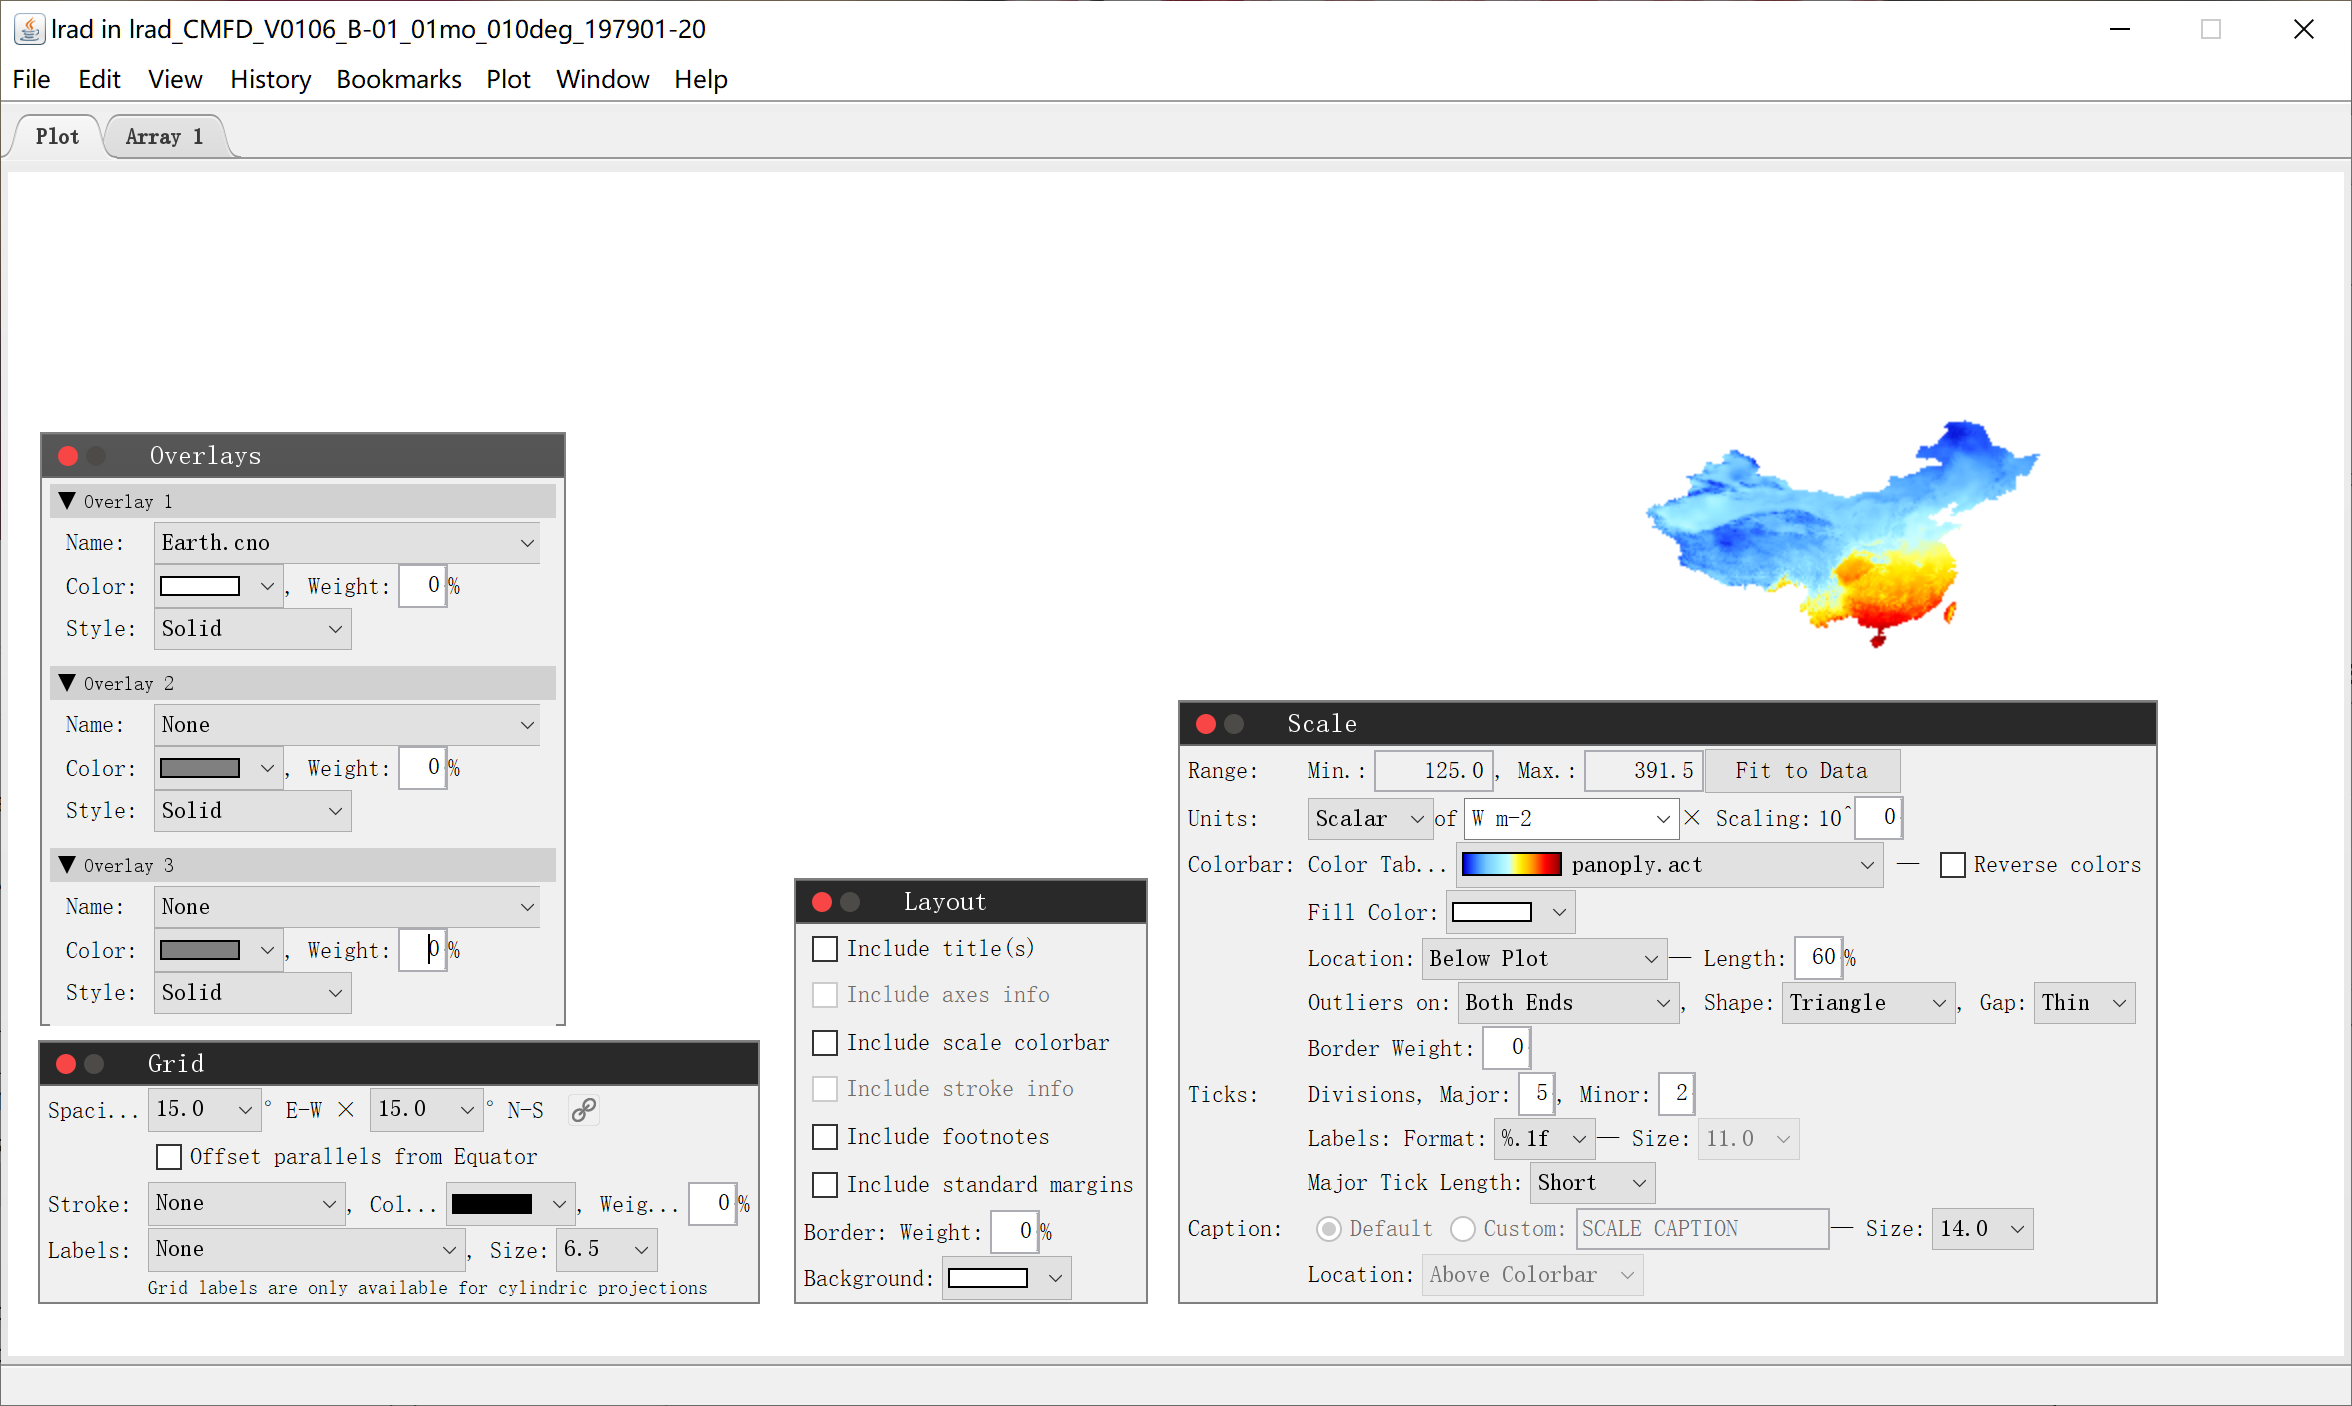
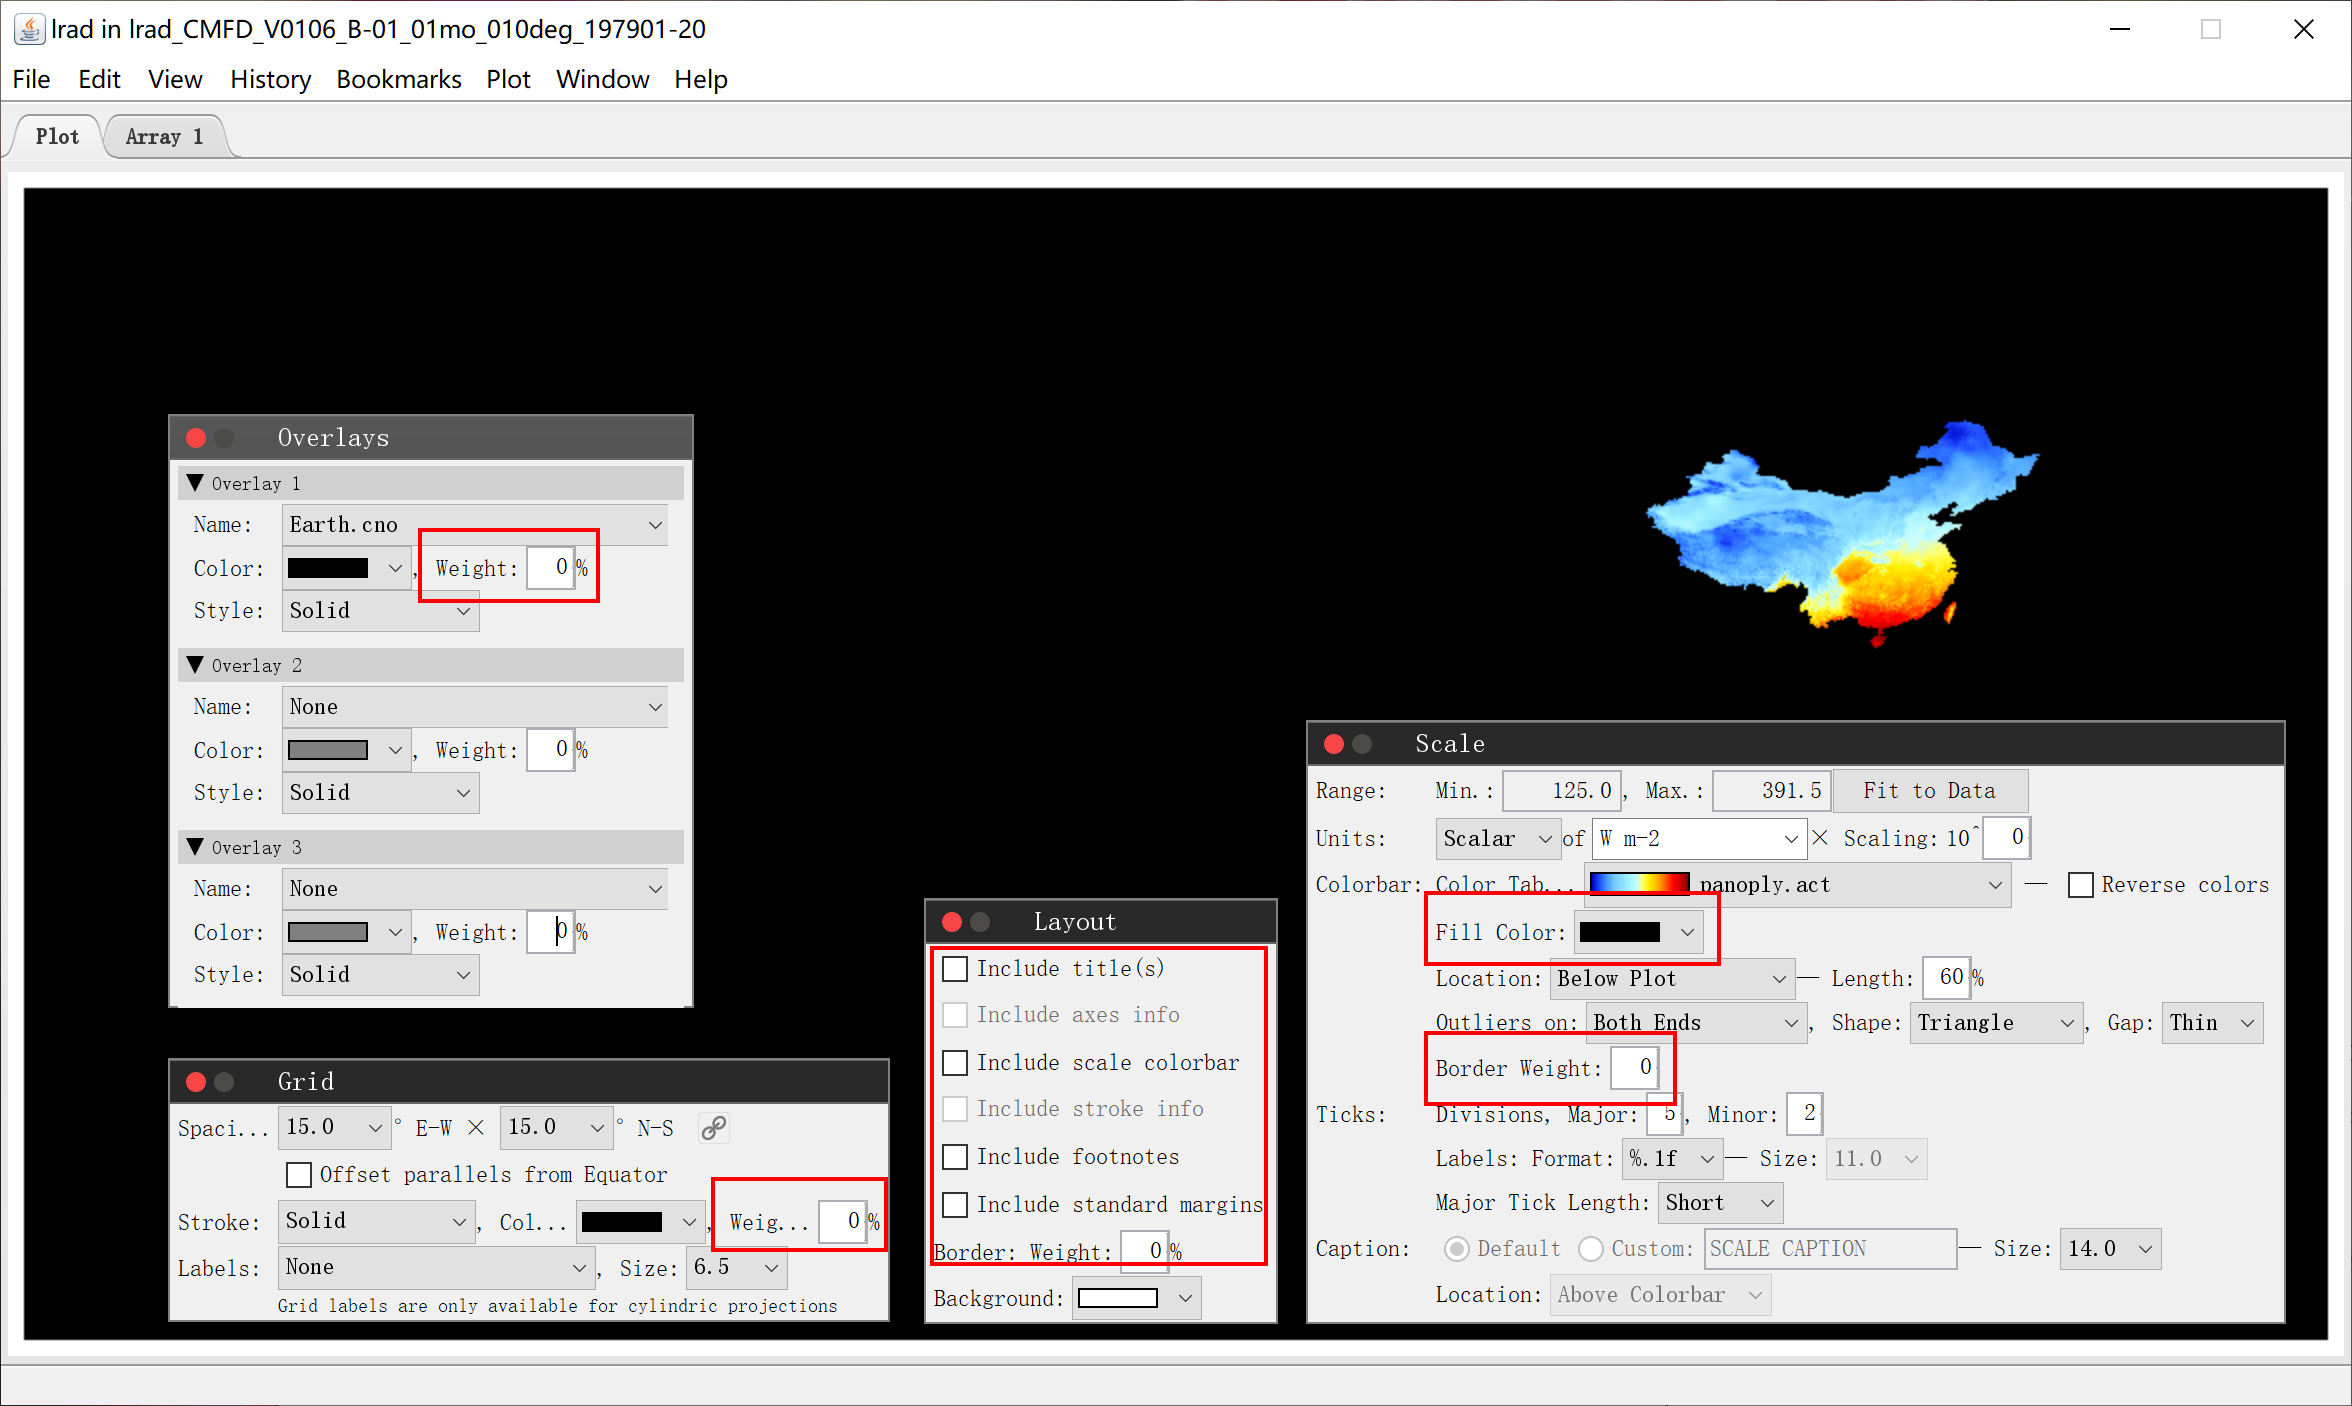
🌈 Optimize remove bg code

diff --git a/去除黑白底色底.py b/去除黑白底色底.py
@@ -1,0 +1,33 @@
+from PIL import Image
+import os
+
+# 设定 png 图片目录，不要使用 C 盘路径，在 Windows 下 C 盘路径会受到保护。
+path = "D://Users//haoning//Downloads//480//"
+files = os.listdir(path)
+
+for file in files:
+    img = Image.open(path + file)
+    img = img.convert("RGBA")
+
+    datas = img.getdata()
+
+    newData = []
+
+    for item in datas:
+        # 移除白色以及附近色彩
+        if item[0] > 246 and item[1] == 246 and item[2] == 246:
+            newData.append((255, 255, 255, 0))
+        # 移除黑色以及附近色彩
+        elif item[0] < 64 and item[1] < 64 and item[2] < 64:
+            newData.append((0, 0, 0, 0))
+        # 移除顶部的线条
+        elif item[0] == 223 and item[1] == 223 and item[2] == 223:
+            newData.append((0, 0, 0, 0))
+        else:
+            newData.append(item)
+
+    img.putdata(newData)
+    img.save(path + file, "PNG")
+    print("Processing, please wait...")
+
+print("All done!")

diff --git a/README.md b/README.md
@@ -64,7 +64,12 @@ MERRA2_100.tavg1_2d_rad_Nx.19800101.nc4
 
 #### 3.1 Plot 设置与导出
 
-在 Plot 页面打开 **Overlays**, **Grid**, **Layout**, **Scale** 这四个窗口，将**所有的线条宽度改为 0**，**颜色底色设置为白色**，仅保留辐射渲染颜色部分即可。**界面边框改为 0**，**取消所有的标题和文字性的内容**。
+在 Plot 页面打开 **Overlays**、 **Grid**、 **Layout**、 **Scale** 这四个窗口，并根据红框标注的位置进行修改：
+
+- Overlays：将线条宽度改为 0
+- Grid：将线条宽度改为 0
+- Layout：全部取消选中
+- Scale：填充颜色改为黑色，线条宽度改为 0
 
 ![](assets/screenshots-1.png)
 
@@ -86,11 +91,12 @@ MERRA2_100.tavg1_2d_rad_Nx.19800101.nc4
 pip install Pillow 
 ```
 
-在 `去除白底.py` 中，设置路径为你的图片序列所在的文件夹即可（注意 Windows 下建议采用双斜杠或者单反斜杠）：
+在 `去除黑白底色底.py` 中，设置路径为你的图片序列所在的文件夹即可（注意 Windows 下建议采用双斜杠或者单反斜杠）：
 
 ```python
 # 设定 png 图片目录
-path = "D://yourpath//480//"
+# 由于 Windows 的安全特性，不要使用 C 盘路径
+path = "D://yourpath//"
 ```
 
 然后运行此 Python 脚本即可，所有图片将全部删去白色底色。
